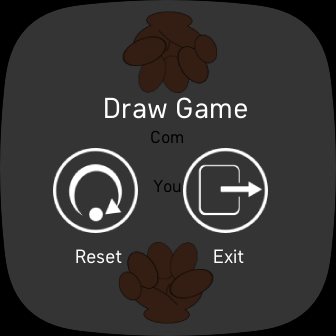
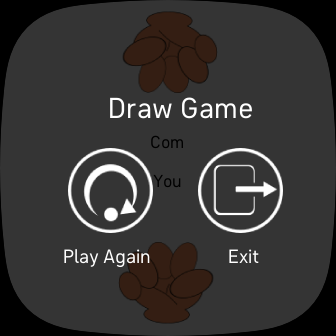
[UPDATE] version 0.0.3 Animation and Cosmetic changes

diff --git a/app/play_game.js b/app/play_game.js
@@ -46,6 +46,8 @@ document.getElementById("setting-reset-btn").addEventListener("mouseup", ()=>{
     writeWins(0,0);
     playerWins = 0;
     comWins = 0;
+    document.getElementById("player-wins").text = "0000";
+    document.getElementById("com-wins").text = "0000";
 });
 
 // Dynamic asset transform settings: One Time execution
@@ -58,8 +60,8 @@ comSprite.groupTransform.rotate.angle = 180;
 
 playerText.x = 50;
 comText.x = -83;
-playerText.y = -5;
-comText.y = 5;
+playerText.y = -10;
+comText.y = 10;
 // let clickY=0, ignoreClick=false;
 // document.getElementById("choose-btn").addEventListener("mousemove", (evt)=>{
 //     if((clickY-evt.screenY) < 10 || (clickY-evt.screenY) < -10)
@@ -171,7 +173,7 @@ const dibs = (comMove,playerMove)=>{
             playerSprite.groupTransform.rotate.angle = 0;
             rps(comMove, playerMove);
         }
-    }, 300);
+    }, 100);
     
 }
 

diff --git a/app/common_use.js b/app/common_use.js
@@ -28,7 +28,7 @@ if (!dev.screen) dev.screen = { width: 348, height: 250 };
 let activateSettings = true, onSettings = false;
 export const device = dev;
 
-let delay = 5;
+let delay = 15;
 export const setDelay = (delayVal) => {
     delay = delayVal;
 }

diff --git a/README.md b/README.md
@@ -22,7 +22,7 @@ The game rules are super simple:
 - Rich user interface
 - Smooth interactive playing and wide gameplay option
 - Great gameplay animations
-- Computer player simulation that challenges you to make your guess for a win?
+- Computer player simulation that challenges you to make your guess for a win.
 - Persistent record of Com vs Player wins
 - Interactive timer for you to take time at your guess
 
